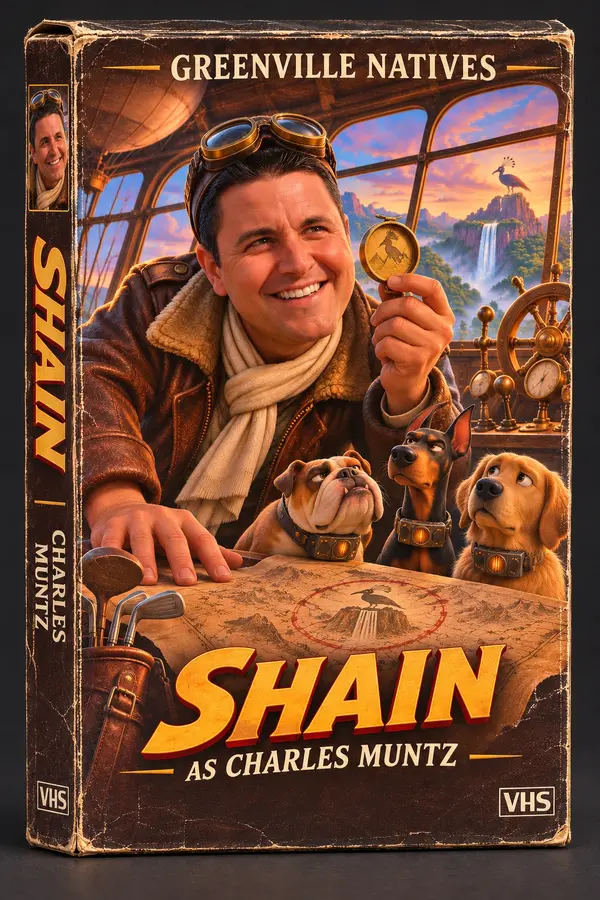
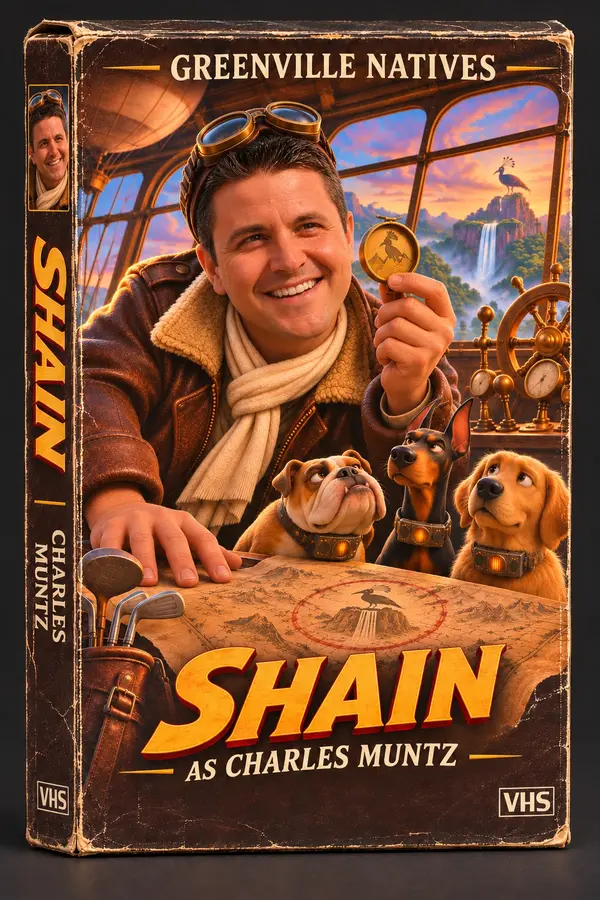
Week 10: redrawn covers for Potter, Waivers, Galt, Ian and Shain
Potter as Jafar, Waivers as Hades, Galt as Chef Skinner and Ian as
Syndrome now match the recast write-ups, and Shain's Charles Muntz art is
refreshed. All five at 600x900, like the rest.

Nine of the ten covers now agree with their entry. Trey is the exception:
his box still reads "TREY AS JAFAR" above a Judge Claude Frollo write-up,
so he stays the only name in STALE_ART and his alt text keeps describing
the picture. The header banner still shows the old cast too.

Each file was matched to its manager by reading the name band off the art,
not by upload order.

Claude-Session: https://claude.ai/code/session_01VmCTUN2fTg16nk1rWDscBf

diff --git a/GN-site/writeups/week10-2026-animated-movie-villains.html b/GN-site/writeups/week10-2026-animated-movie-villains.html
@@ -264,7 +264,7 @@ h3 .mgr{font-size:.82em;vertical-align:.06em;}
     </section>
   </article>
   <article class="entry">
-    <figure class="poster"><img src="img/week10-2026-animated-movie-villains/covers/potter.webp" alt="VHS cover: Mark Potter as Syndrome" width="400" height="600" loading="lazy" decoding="async" onerror="this.onerror=null;this.src='img/managers/potter.webp'"></figure>
+    <figure class="poster"><img src="img/week10-2026-animated-movie-villains/covers/potter.webp" alt="VHS cover: Mark Potter as Jafar" width="400" height="600" loading="lazy" decoding="async" onerror="this.onerror=null;this.src='img/managers/potter.webp'"></figure>
     <div class="hd"><div class="rk">4</div>
       <div><p class="champ">Jafar</p><h3><span class="mgr mgr-potter">Mark Potter</span></h3><p class="team">Week 10</p></div>
     </div>
@@ -282,7 +282,7 @@ h3 .mgr{font-size:.82em;vertical-align:.06em;}
     </section>
   </article>
   <article class="entry">
-    <figure class="poster"><img src="img/week10-2026-animated-movie-villains/covers/waivers.webp" alt="VHS cover: Michael Waivers as Chef Skinner" width="400" height="600" loading="lazy" decoding="async" onerror="this.onerror=null;this.src='img/managers/waivers.webp'"></figure>
+    <figure class="poster"><img src="img/week10-2026-animated-movie-villains/covers/waivers.webp" alt="VHS cover: Michael Waivers as Hades" width="400" height="600" loading="lazy" decoding="async" onerror="this.onerror=null;this.src='img/managers/waivers.webp'"></figure>
     <div class="hd"><div class="rk">5</div>
       <div><p class="champ">Hades</p><h3><span class="mgr mgr-waivers">Michael Waivers</span></h3><p class="team">Week 10 &middot; <span class="mv up">▲ up 1 from 6</span></p></div>
     </div>
@@ -316,7 +316,7 @@ h3 .mgr{font-size:.82em;vertical-align:.06em;}
     </section>
   </article>
   <article class="entry">
-    <figure class="poster"><img src="img/week10-2026-animated-movie-villains/covers/galt.webp" alt="VHS cover: Lee Galt as Rumpelstiltskin" width="400" height="600" loading="lazy" decoding="async" onerror="this.onerror=null;this.src='img/managers/galt.webp'"></figure>
+    <figure class="poster"><img src="img/week10-2026-animated-movie-villains/covers/galt.webp" alt="VHS cover: Lee Galt as Chef Skinner" width="400" height="600" loading="lazy" decoding="async" onerror="this.onerror=null;this.src='img/managers/galt.webp'"></figure>
     <div class="hd"><div class="rk">7</div>
       <div><p class="champ">Chef Skinner</p><h3><span class="mgr mgr-galt">Lee Galt</span></h3><p class="team">Week 10</p></div>
     </div>
@@ -333,7 +333,7 @@ h3 .mgr{font-size:.82em;vertical-align:.06em;}
     </section>
   </article>
   <article class="entry">
-    <figure class="poster"><img src="img/week10-2026-animated-movie-villains/covers/ian.webp" alt="VHS cover: Ian Baro as Sid Phillips" width="400" height="600" loading="lazy" decoding="async" onerror="this.onerror=null;this.src='img/managers/baro.webp'"></figure>
+    <figure class="poster"><img src="img/week10-2026-animated-movie-villains/covers/ian.webp" alt="VHS cover: Ian Baro as Syndrome" width="400" height="600" loading="lazy" decoding="async" onerror="this.onerror=null;this.src='img/managers/baro.webp'"></figure>
     <div class="hd"><div class="rk">8</div>
       <div><p class="champ">Syndrome</p><h3><span class="mgr mgr-baro">Ian Baro</span></h3><p class="team">Week 10 &middot; <span class="mv up">▲ up 1 from 9</span></p></div>
     </div>
@@ -424,7 +424,7 @@ h3 .mgr{font-size:.82em;vertical-align:.06em;}
   </article>
   <article class="mu">
     <div class="mu-hd"><div><h3><span class="mgr mgr-waivers">Michael Waivers</span></h3><p>5–5</p></div><span class="vs">VS</span><div class="rt"><h3><span class="mgr mgr-hudson">Josh Hudson</span></h3><p>5–5</p></div></div>
-    <div class="mu-art"><img class="l" src="img/week10-2026-animated-movie-villains/covers/waivers.webp" alt="VHS cover: Michael Waivers as Chef Skinner" loading="lazy" decoding="async" onerror="this.onerror=null;this.src='img/managers/waivers.webp'"><span class="ser">Hud leads 12–11</span><img class="r" src="img/week10-2026-animated-movie-villains/covers/hud.webp" alt="VHS cover: Josh Hudson as Captain Hook" loading="lazy" decoding="async" onerror="this.onerror=null;this.src='img/managers/hudson.webp'"></div>
+    <div class="mu-art"><img class="l" src="img/week10-2026-animated-movie-villains/covers/waivers.webp" alt="VHS cover: Michael Waivers as Hades" loading="lazy" decoding="async" onerror="this.onerror=null;this.src='img/managers/waivers.webp'"><span class="ser">Hud leads 12–11</span><img class="r" src="img/week10-2026-animated-movie-villains/covers/hud.webp" alt="VHS cover: Josh Hudson as Captain Hook" loading="lazy" decoding="async" onerror="this.onerror=null;this.src='img/managers/hudson.webp'"></div>
     <p class="mu-blurb">Hud leads the series 12–11, and both enter 5–5. Waivers carries the better points-for position and a four-game winning streak, while Hud has won two straight; the loser will have two games left to recover from 5–6.</p>
     <div class="mu-sec"><p class="lbl">Head-to-head &middot; the history</p><div class="r"><span>(11-12)</span><b>Overall Record</b><span>(12-11)</span></div><div class="r"><span>48%</span><b>Winning %</b><span>52%</span></div><div class="r"><span>(11-12)</span><b>Regular Season Record</b><span>(12-11)</span></div><div class="r"><span>(0-0)</span><b>Playoff Record</b><span>(0-0)</span></div><div class="r"><span>2534.4</span><b>Points Scored</b><span>2482.4</span></div><div class="r"><span>159.5</span><b>High Score</b><span>151.2</span></div><div class="r"><span>62.3</span><b>Low Score</b><span>53.2</span></div><div class="r"><span>110.2</span><b>PPG</b><span>107.9</span></div><div class="r"><span>110.2</span><b>Regular Season PPG</b><span>107.9</span></div><div class="r"><span>N/A</span><b>Playoff PPG</b><span>N/A</span></div><div class="r"><span>0</span><b>Current Winning Streak</b><span>1</span></div><div class="r"><span>4</span><b>Longest Winning Streak</b><span>3</span></div><div class="r"><span>52.0</span><b>Point Dif</b><span>-52.0</span></div><div class="r"><span>104.7</span><b>Max Point Dif</b><span>48.8</span></div></div>
     <div class="mu-sec"><p class="lbl">Matchup marks &middot; the margins</p><div class="r"><span>1</span><b>Buzzer Beater</b><span>0</span></div><div class="r"><span>0</span><b>Nail Biter</b><span>4</span></div><div class="r"><span>2</span><b>Dunked On</b><span>4</span></div><div class="r"><span>5</span><b>Blow Out</b><span>3</span></div><div class="r"><span>1</span><b>Slug Fest</b><span>0</span></div><div class="r"><span>2</span><b>Pillow Fight</b><span>0</span></div></div>
@@ -432,7 +432,7 @@ h3 .mgr{font-size:.82em;vertical-align:.06em;}
   </article>
   <article class="mu">
     <div class="mu-hd"><div><h3><span class="mgr mgr-potter">Mark Potter</span></h3><p>5–5</p></div><span class="vs">VS</span><div class="rt"><h3><span class="mgr mgr-galt">Lee Galt</span></h3><p>4–6</p></div></div>
-    <div class="mu-art"><img class="l" src="img/week10-2026-animated-movie-villains/covers/potter.webp" alt="VHS cover: Mark Potter as Syndrome" loading="lazy" decoding="async" onerror="this.onerror=null;this.src='img/managers/potter.webp'"><span class="ser">Potter leads 11–8</span><img class="r" src="img/week10-2026-animated-movie-villains/covers/galt.webp" alt="VHS cover: Lee Galt as Rumpelstiltskin" loading="lazy" decoding="async" onerror="this.onerror=null;this.src='img/managers/galt.webp'"></div>
+    <div class="mu-art"><img class="l" src="img/week10-2026-animated-movie-villains/covers/potter.webp" alt="VHS cover: Mark Potter as Jafar" loading="lazy" decoding="async" onerror="this.onerror=null;this.src='img/managers/potter.webp'"><span class="ser">Potter leads 11–8</span><img class="r" src="img/week10-2026-animated-movie-villains/covers/galt.webp" alt="VHS cover: Lee Galt as Chef Skinner" loading="lazy" decoding="async" onerror="this.onerror=null;this.src='img/managers/galt.webp'"></div>
     <p class="mu-blurb">Potter leads the series 11–8, but Galt has won two straight and can pull level with him at 5–6. Potter gets DeVonta Smith and Bucky Irving back from their byes, while Puka remains unavailable; Galt loses <span class="ph" aria-hidden="true">DL<img loading="lazy" alt="" referrerpolicy="no-referrer" onerror="if(this.dataset.alt){this.src=this.dataset.alt;this.removeAttribute('data-alt')}else{this.remove()}" data-alt="/statmuse/img/nfl/players/atlanta-falcons-drake-london-min--_odymehv.png" src="https://a.espncdn.com/i/headshots/nfl/players/full/4426502.png"></span>Drake London and Blake Corum to byes.</p>
     <div class="mu-sec"><p class="lbl">Head-to-head &middot; the history</p><div class="r"><span>(11-8)</span><b>Overall Record</b><span>(8-11)</span></div><div class="r"><span>58%</span><b>Winning %</b><span>42%</span></div><div class="r"><span>(10-8)</span><b>Regular Season Record</b><span>(8-10)</span></div><div class="r"><span>(1-0)</span><b>Playoff Record</b><span>(0-1)</span></div><div class="r"><span>2410.6</span><b>Points Scored</b><span>2148.8</span></div><div class="r"><span>225.4</span><b>High Score</b><span>152.9</span></div><div class="r"><span>69.5</span><b>Low Score</b><span>65.5</span></div><div class="r"><span>126.9</span><b>PPG</b><span>113.1</span></div><div class="r"><span>117.3</span><b>Regular Season PPG</b><span>105.9</span></div><div class="r"><span>298.6</span><b>Playoff PPG</b><span>243.2</span></div><div class="r"><span>0</span><b>Current Winning Streak</b><span>1</span></div><div class="r"><span>3</span><b>Longest Winning Streak</b><span>2</span></div><div class="r"><span>261.8</span><b>Point Dif</b><span>-261.8</span></div><div class="r"><span>137.9</span><b>Max Point Dif</b><span>48.4</span></div></div>
     <div class="mu-sec"><p class="lbl">Matchup marks &middot; the margins</p><div class="r"><span>0</span><b>Buzzer Beater</b><span>0</span></div><div class="r"><span>0</span><b>Nail Biter</b><span>0</span></div><div class="r"><span>3</span><b>Dunked On</b><span>2</span></div><div class="r"><span>5</span><b>Blow Out</b><span>3</span></div><div class="r"><span>2</span><b>Slug Fest</b><span>0</span></div><div class="r"><span>0</span><b>Pillow Fight</b><span>0</span></div></div>
@@ -440,7 +440,7 @@ h3 .mgr{font-size:.82em;vertical-align:.06em;}
   </article>
   <article class="mu">
     <div class="mu-hd"><div><h3><span class="mgr mgr-baro">Ian Baro</span></h3><p>4–6</p></div><span class="vs">VS</span><div class="rt"><h3><span class="mgr mgr-collins">Shain Collins</span></h3><p>1–9</p></div></div>
-    <div class="mu-art"><img class="l" src="img/week10-2026-animated-movie-villains/covers/ian.webp" alt="VHS cover: Ian Baro as Sid Phillips" loading="lazy" decoding="async" onerror="this.onerror=null;this.src='img/managers/baro.webp'"><span class="ser">Ian leads 15–9</span><img class="r" src="img/week10-2026-animated-movie-villains/covers/shain.webp" alt="VHS cover: Shain Collins as Charles Muntz" loading="lazy" decoding="async" onerror="this.onerror=null;this.src='img/managers/collins.webp'"></div>
+    <div class="mu-art"><img class="l" src="img/week10-2026-animated-movie-villains/covers/ian.webp" alt="VHS cover: Ian Baro as Syndrome" loading="lazy" decoding="async" onerror="this.onerror=null;this.src='img/managers/baro.webp'"><span class="ser">Ian leads 15–9</span><img class="r" src="img/week10-2026-animated-movie-villains/covers/shain.webp" alt="VHS cover: Shain Collins as Charles Muntz" loading="lazy" decoding="async" onerror="this.onerror=null;this.src='img/managers/collins.webp'"></div>
     <p class="mu-blurb">Ian leads 15–9 and needs this win before finishing against Wood and Trey. Shain can end Ian’s slim playoff hopes while improving his own Caddy Bowl position, although Brown’s hamstring injury and Marks’ concussion add uncertainty to an already difficult assignment.</p>
     <div class="mu-sec"><p class="lbl">Head-to-head &middot; the history</p><div class="r"><span>(15-9)</span><b>Overall Record</b><span>(9-15)</span></div><div class="r"><span>63%</span><b>Winning %</b><span>38%</span></div><div class="r"><span>(14-9)</span><b>Regular Season Record</b><span>(9-14)</span></div><div class="r"><span>(1-0)</span><b>Playoff Record</b><span>(0-1)</span></div><div class="r"><span>2835.0</span><b>Points Scored</b><span>2567.1</span></div><div class="r"><span>150.1</span><b>High Score</b><span>162.2</span></div><div class="r"><span>86.5</span><b>Low Score</b><span>47.1</span></div><div class="r"><span>118.1</span><b>PPG</b><span>107.0</span></div><div class="r"><span>114.8</span><b>Regular Season PPG</b><span>103.9</span></div><div class="r"><span>194.1</span><b>Playoff PPG</b><span>178.2</span></div><div class="r"><span>4</span><b>Current Winning Streak</b><span>0</span></div><div class="r"><span>4</span><b>Longest Winning Streak</b><span>4</span></div><div class="r"><span>267.9</span><b>Point Dif</b><span>-267.9</span></div><div class="r"><span>70.7</span><b>Max Point Dif</b><span>63.4</span></div></div>
     <div class="mu-sec"><p class="lbl">Matchup marks &middot; the margins</p><div class="r"><span>0</span><b>Buzzer Beater</b><span>1</span></div><div class="r"><span>2</span><b>Nail Biter</b><span>1</span></div><div class="r"><span>6</span><b>Dunked On</b><span>3</span></div><div class="r"><span>4</span><b>Blow Out</b><span>1</span></div><div class="r"><span>1</span><b>Slug Fest</b><span>0</span></div><div class="r"><span>1</span><b>Pillow Fight</b><span>0</span></div></div>
